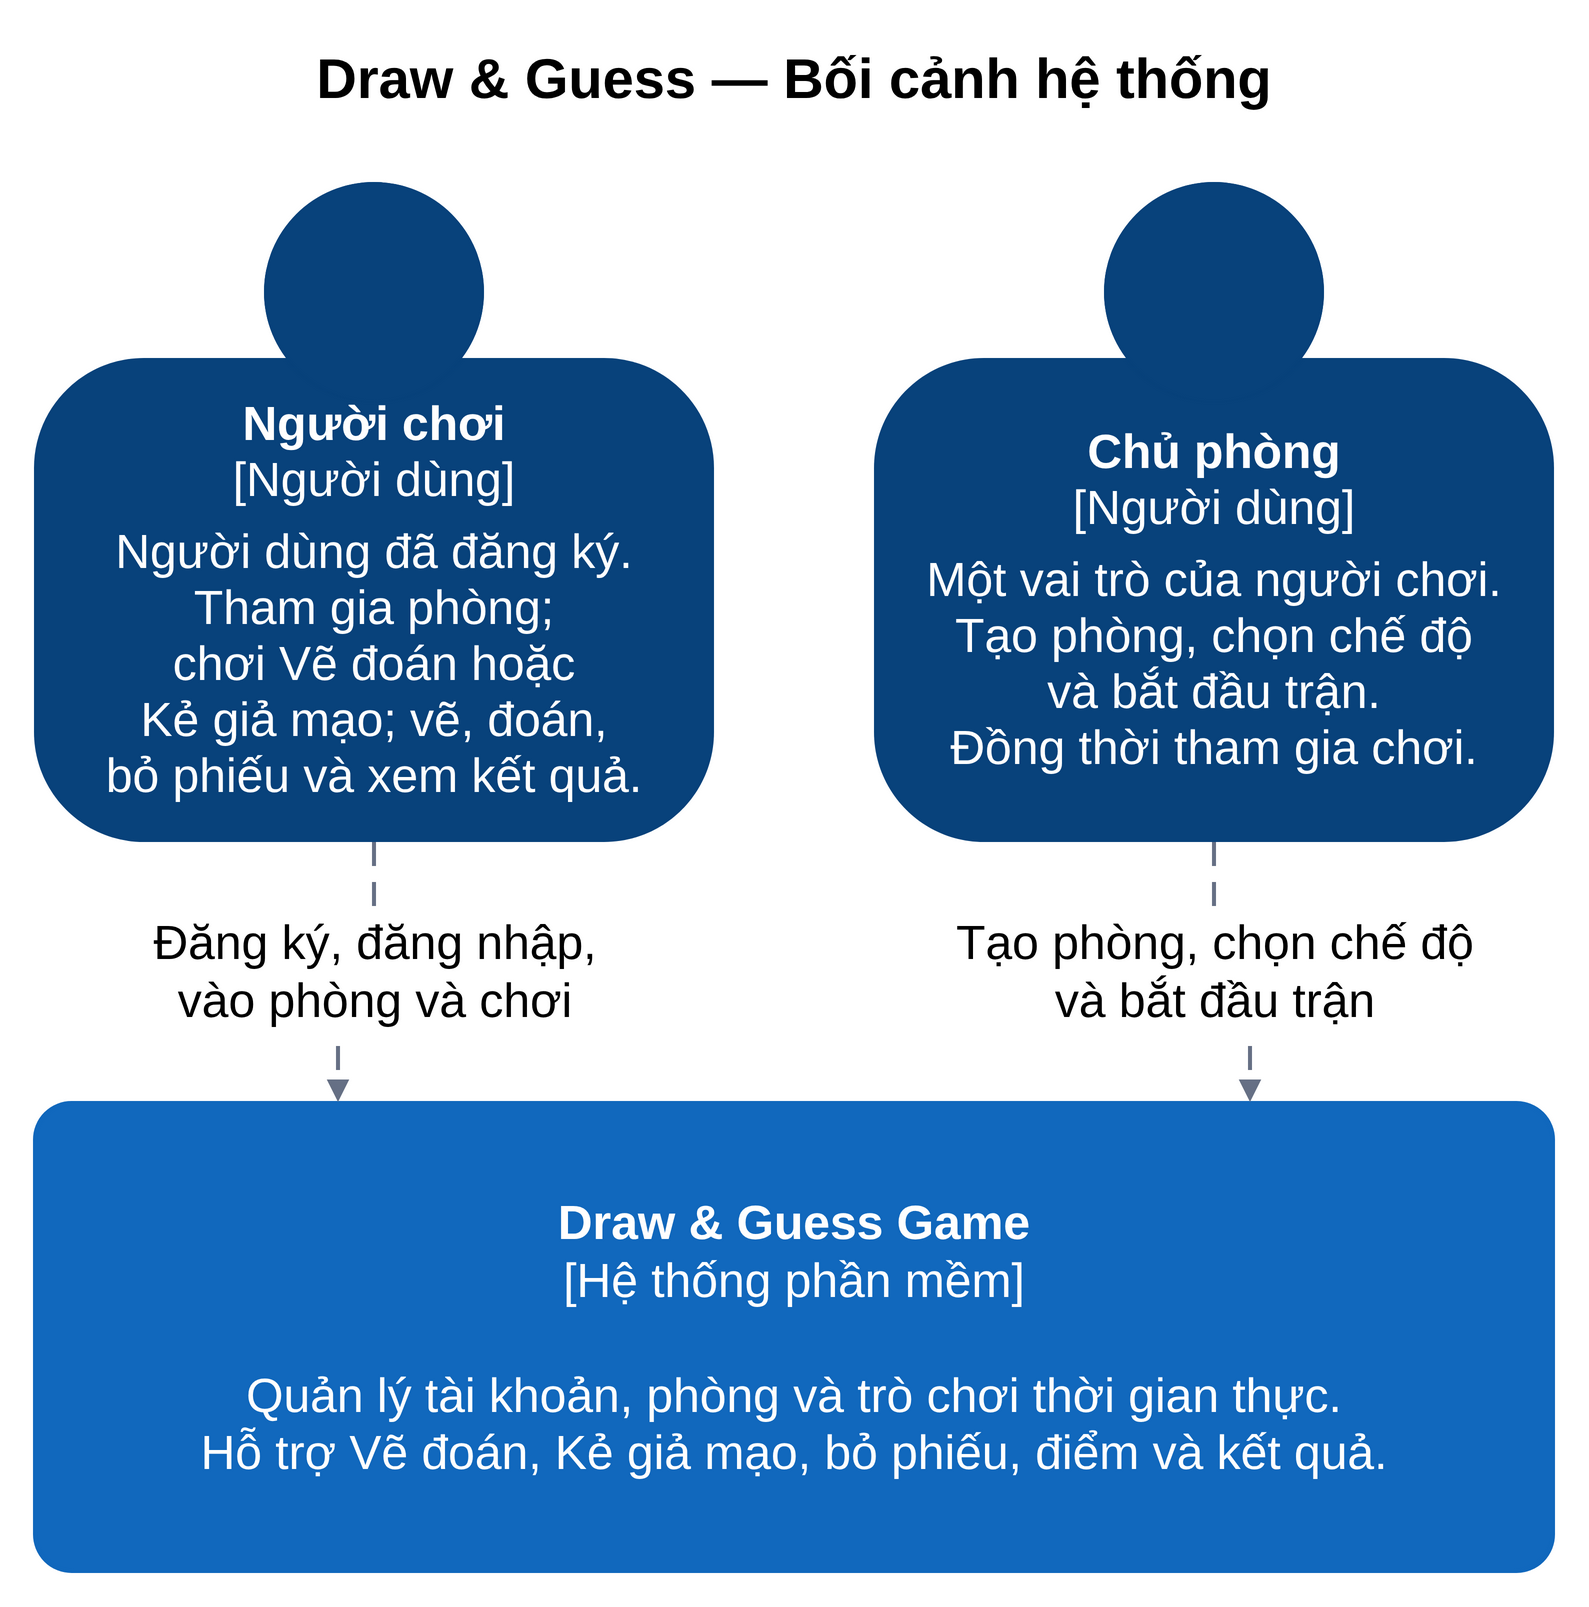
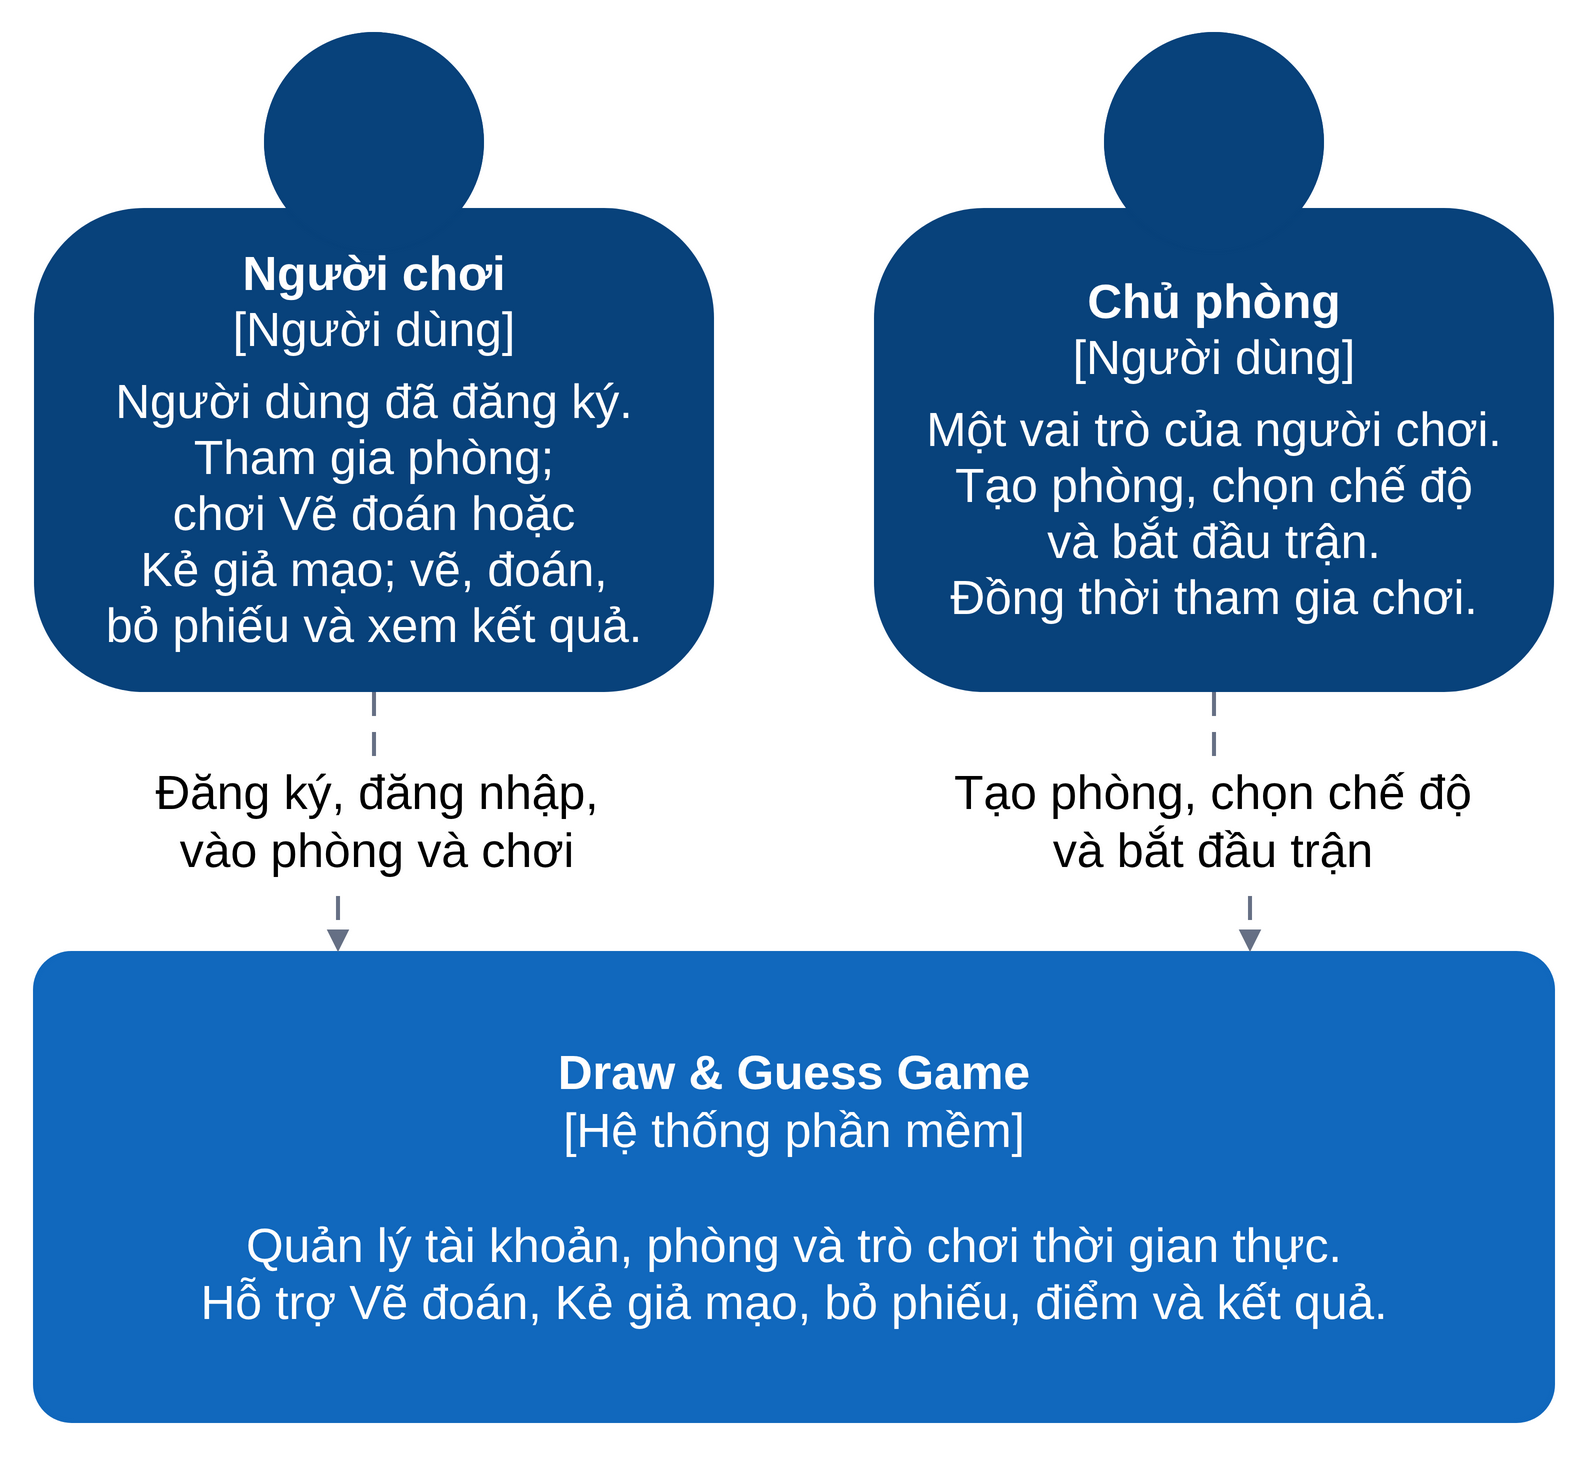
m

Changed region(s): [[0.0, 0.0, 0.9868, 0.9266]]

diff --git a/agent.md b/agent.md
@@ -255,3 +255,32 @@
 - Outputs: part 1 2870 × 2170; part 2 1770 × 2170.
 - Verification: inspected both final renders; bottom notes are absent and lane borders/diagram elements are not clipped. Temporary XML/ID/reference and A–D marker checks passed; all remaining cells match the prior export copies. PNG signatures/dimensions and source SHA-256 preservation passed. No application tests were required.
 - Limits/pending: explanatory bottom notes are omitted from the images as requested. Google Docs insertion/page fit and report references remain pending, along with deferred Container/Component source layouts, report explanations/multi-room walkthrough, implementation/testing evidence, instructor confirmation/failure policies, and final document review.
+
+
+## 2026-11-14 — Align Component responsibilities with Context, Container, and concurrency
+
+- Authorization: the user approved the eight corrections identified in the cross-diagram review.
+- Files changed: `docs/diagram/c4-model.drawio.xml`, `docs/diagram/c4-container-design-log.md`, and `agent.md`.
+- Changes: updated Component terminology to Kẻ giả mạo/bỏ phiếu; aligned realtime transport labels; clarified Hub validation, room resolution/membership checks, authoritative room-state ownership, ordered canvas updates, host startup permissions, per-connection bounded queues/senders, and account writes. Added delivery-to-room-management failure notification feeding the existing room-event queue path. Retained ten logical components and open gameplay/failure policies.
+- Verification: XML parsing, unique IDs, parent/source/target references and relative edge geometry pass for all seven pages. The six other page blocks are byte-for-byte unchanged. Inspected temporary Component renders; corrected narrow wrapping of the new failure label. Updated descriptions fit existing boxes. Full page layout optimization remains deferred. No application tests were required; this records target architecture only.
+- Pending: Component/Container layout and export refinement; Context source/export terminology synchronization; Google Docs sizing and report references; architecture explanations/multi-room walkthrough; implementation/testing evidence; scoring/tie/reconnect/host-transfer/queue policies and instructor confirmation; final report review.
+
+
+## 2026-11-14 — Split Component diagram into two Google Docs report pages
+
+- Authorization: the user approved two compact portrait pages in the original XML, two PNG exports without the c4 prefix, and updates to the design and shared logs.
+- Files changed: `docs/diagram/c4-model.drawio.xml`, `docs/diagram/component-1.png`, `docs/diagram/component-2.png`, `docs/diagram/c4-container-design-log.md`, and `agent.md`.
+- Added pages: `component-report-1` (reception and delivery) and `component-report-2` (room processing and data). All seven existing pages remain byte-for-byte unchanged, including the complete overview. A/B/C endpoints preserve room actions, outgoing events, and account-persistence dependencies. Both pages identify the same server process.
+- Layout: two columns, compact boxes, consistent 22-unit body and 20-unit relationship text, light backgrounds, explicit label placement, and shared C#/ASP.NET Core boundary labels replacing repeated component technology tags. All ten component descriptions are preserved. Template legends and bottom notes are excluded from report views; the overview retains design notes.
+- Exports: both PNGs are 1866 × 2836, 2×, white background, 16-unit border, with matching bounds for consistent insertion scale.
+- Verification: XML, unique IDs, references, relative edges, exact component-description comparison, and logical endpoint comparison through A–C passed. Inspected final renders and two-page A4 proof `/tmp/component-a4-proof.pdf`. At 16 cm width each image is 24.32 cm tall, body text approximately 10.69 pt and relationships 9.72 pt; both fit with captions using left 3 cm and other 2 cm margins. Corrected intermediate label overlaps. No application tests required.
+- Limits/pending: actual Google Docs insertion and exported report PDF remain unchecked. Pending: report references/placement; deferred Container source layout; Context source/export terminology synchronization; architecture explanations/multi-room walkthrough; implementation/testing evidence; unresolved policies/instructor confirmation; final report review.
+
+
+## 2026-11-14 — Remove the Context export headline
+
+- Authorization: the user approved removing the top Draw & Guess headline and cropping the freed space in the Context PNG, with updates to both logs.
+- Files changed: `docs/diagram/c4-context.png`, `docs/diagram/c4-context-design-log.md`, and `agent.md`.
+- Changes: re-rendered a temporary Context copy without the title, retaining the current enlarged fonts, actor/system boxes, Vietnamese descriptions, Kẻ giả mạo terminology, dashed arrows and label alignment. Export is 1589 × 1457, 2× on white with a 16-unit border. The system name inside the system box remains.
+- Verification: inspected the rendered image for clipping and text/arrow separation; temporary XML/IDs/references/relative edges and dashed styles passed. PNG signature/dimensions passed. SHA-256 confirms both repository XML sources remain unchanged. No application tests needed.
+- Pending: actual Google Docs placement and report references; deferred Container source layout; Context source/export terminology synchronization; architecture evidence, unresolved policies/instructor confirmation, and final report review.

diff --git a/docs/diagram/c4-container-design-log.md b/docs/diagram/c4-container-design-log.md
@@ -252,3 +252,23 @@ Technical references consulted: [SignalR overview](https://learn.microsoft.com/a
 - Changes: updated text attributes on exactly six objects: `ct-client`, `ct-server`, `ct-db`, `ct-e-actions`, `ct-e-updates`, and `ct-player`. Client and both gameplay directions explicitly retain thời gian thực. Updated the two gameplay display templates with the approved HTTPS/WSS wording while preserving their widths, type sizes, and technologies.
 - Verification: parsed XML and checked unique IDs, parent/source/target references, and relative edge geometry on all seven pages. Exact comparison confirms only the approved attributes in six opening tags differ; removing those tags leaves the rest of the file byte-for-byte identical. All geometry, styles, connectors, legends, and six unrelated pages are preserved. Inspected `/tmp/c4-container-minimal-text-review.png`; new descriptions wrap within the existing boxes. `git diff --check` passed.
 - Limits: source layout intentionally remains unchanged and differs from the compact PNG export. No repository image regenerated; no application tests required or run.
+
+
+## 2026-11-14 — Align Component responsibilities with Context, Container, and concurrency
+
+- Authorization: the user approved the eight corrections identified in the cross-diagram review.
+- Files changed: `docs/diagram/c4-model.drawio.xml`, `docs/diagram/c4-container-design-log.md`, and `agent.md`.
+- Changes: updated Component terminology to Kẻ giả mạo/bỏ phiếu; aligned realtime transport labels; clarified Hub validation, room resolution/membership checks, authoritative room-state ownership, ordered canvas updates, host startup permissions, per-connection bounded queues/senders, and account writes. Added delivery-to-room-management failure notification feeding the existing room-event queue path. Retained ten logical components and open gameplay/failure policies.
+- Verification: XML parsing, unique IDs, parent/source/target references and relative edge geometry pass for all seven pages. The six other page blocks are byte-for-byte unchanged. Inspected temporary Component renders; corrected narrow wrapping of the new failure label. Updated descriptions fit existing boxes. Full page layout optimization remains deferred. No application tests were required; this records target architecture only.
+- Pending: Component/Container layout and export refinement; Context source/export terminology synchronization; Google Docs sizing and report references; architecture explanations/multi-room walkthrough; implementation/testing evidence; scoring/tie/reconnect/host-transfer/queue policies and instructor confirmation; final report review.
+
+
+## 2026-11-14 — Split Component diagram into two Google Docs report pages
+
+- Authorization: the user approved two compact portrait pages in the original XML, two PNG exports without the c4 prefix, and updates to the design and shared logs.
+- Files changed: `docs/diagram/c4-model.drawio.xml`, `docs/diagram/component-1.png`, `docs/diagram/component-2.png`, `docs/diagram/c4-container-design-log.md`, and `agent.md`.
+- Added pages: `component-report-1` (reception and delivery) and `component-report-2` (room processing and data). All seven existing pages remain byte-for-byte unchanged, including the complete overview. A/B/C endpoints preserve room actions, outgoing events, and account-persistence dependencies. Both pages identify the same server process.
+- Layout: two columns, compact boxes, consistent 22-unit body and 20-unit relationship text, light backgrounds, explicit label placement, and shared C#/ASP.NET Core boundary labels replacing repeated component technology tags. All ten component descriptions are preserved. Template legends and bottom notes are excluded from report views; the overview retains design notes.
+- Exports: both PNGs are 1866 × 2836, 2×, white background, 16-unit border, with matching bounds for consistent insertion scale.
+- Verification: XML, unique IDs, references, relative edges, exact component-description comparison, and logical endpoint comparison through A–C passed. Inspected final renders and two-page A4 proof `/tmp/component-a4-proof.pdf`. At 16 cm width each image is 24.32 cm tall, body text approximately 10.69 pt and relationships 9.72 pt; both fit with captions using left 3 cm and other 2 cm margins. Corrected intermediate label overlaps. No application tests required.
+- Limits/pending: actual Google Docs insertion and exported report PDF remain unchecked. Pending: report references/placement; deferred Container source layout; Context source/export terminology synchronization; architecture explanations/multi-room walkthrough; implementation/testing evidence; unresolved policies/instructor confirmation; final report review.

diff --git a/docs/diagram/c4-context-design-log.md b/docs/diagram/c4-context-design-log.md
@@ -174,3 +174,12 @@ The user approved the revised four-page update. Translated actual Context model 
 - Output: 1589 × 1607 PNG at 2×, white background, 16-unit border.
 - Verification: inspected final render and its A4 portrait proof at 16 cm width, report margins (left 3 cm, others 2 cm), with caption. Figure height about 16.18 cm; body text about 13.7 pt at insertion size. No clipping/overlap seen. XML/IDs/references/relative edges, normalized wording, endpoints, PNG signature/dimensions, unchanged source hashes, and `git diff --check` passed.
 - Limits: actual Google Docs insertion remains to be checked; preserve aspect ratio and use one image per page. Both editable XML files are unchanged.
+
+
+## 2026-11-14 — Remove the Context export headline
+
+- Authorization: the user approved removing the top Draw & Guess headline and cropping the freed space in the Context PNG, with updates to both logs.
+- Files changed: `docs/diagram/c4-context.png`, `docs/diagram/c4-context-design-log.md`, and `agent.md`.
+- Changes: re-rendered a temporary Context copy without the title, retaining the current enlarged fonts, actor/system boxes, Vietnamese descriptions, Kẻ giả mạo terminology, dashed arrows and label alignment. Export is 1589 × 1457, 2× on white with a 16-unit border. The system name inside the system box remains.
+- Verification: inspected the rendered image for clipping and text/arrow separation; temporary XML/IDs/references/relative edges and dashed styles passed. PNG signature/dimensions passed. SHA-256 confirms both repository XML sources remain unchanged. No application tests needed.
+- Pending: actual Google Docs placement and report references; deferred Container source layout; Context source/export terminology synchronization; architecture evidence, unresolved policies/instructor confirmation, and final report review.
